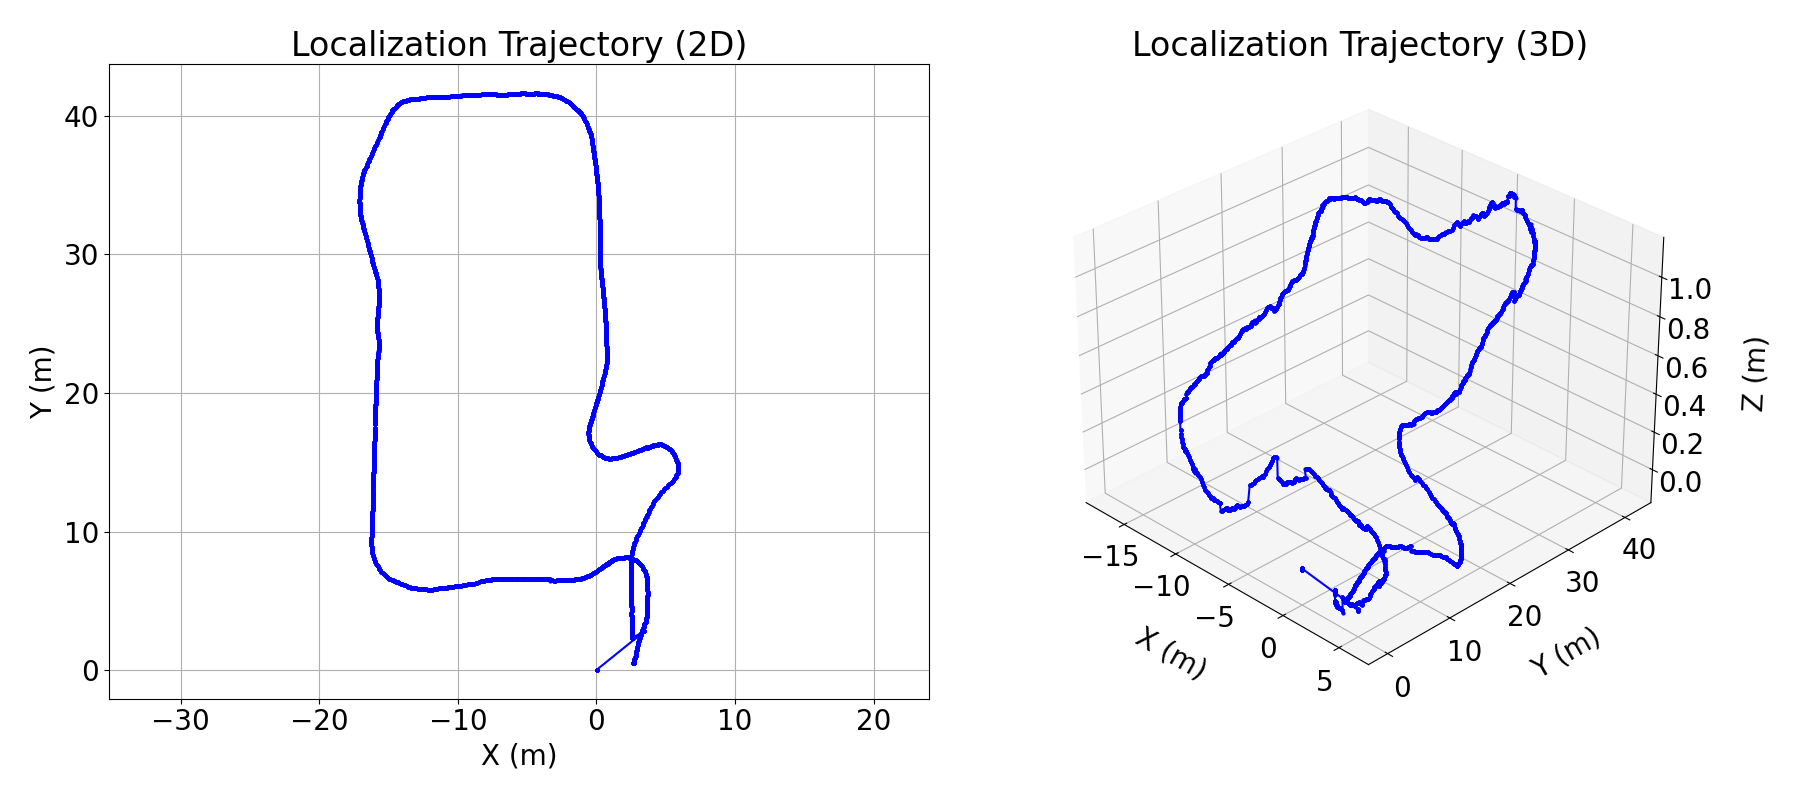
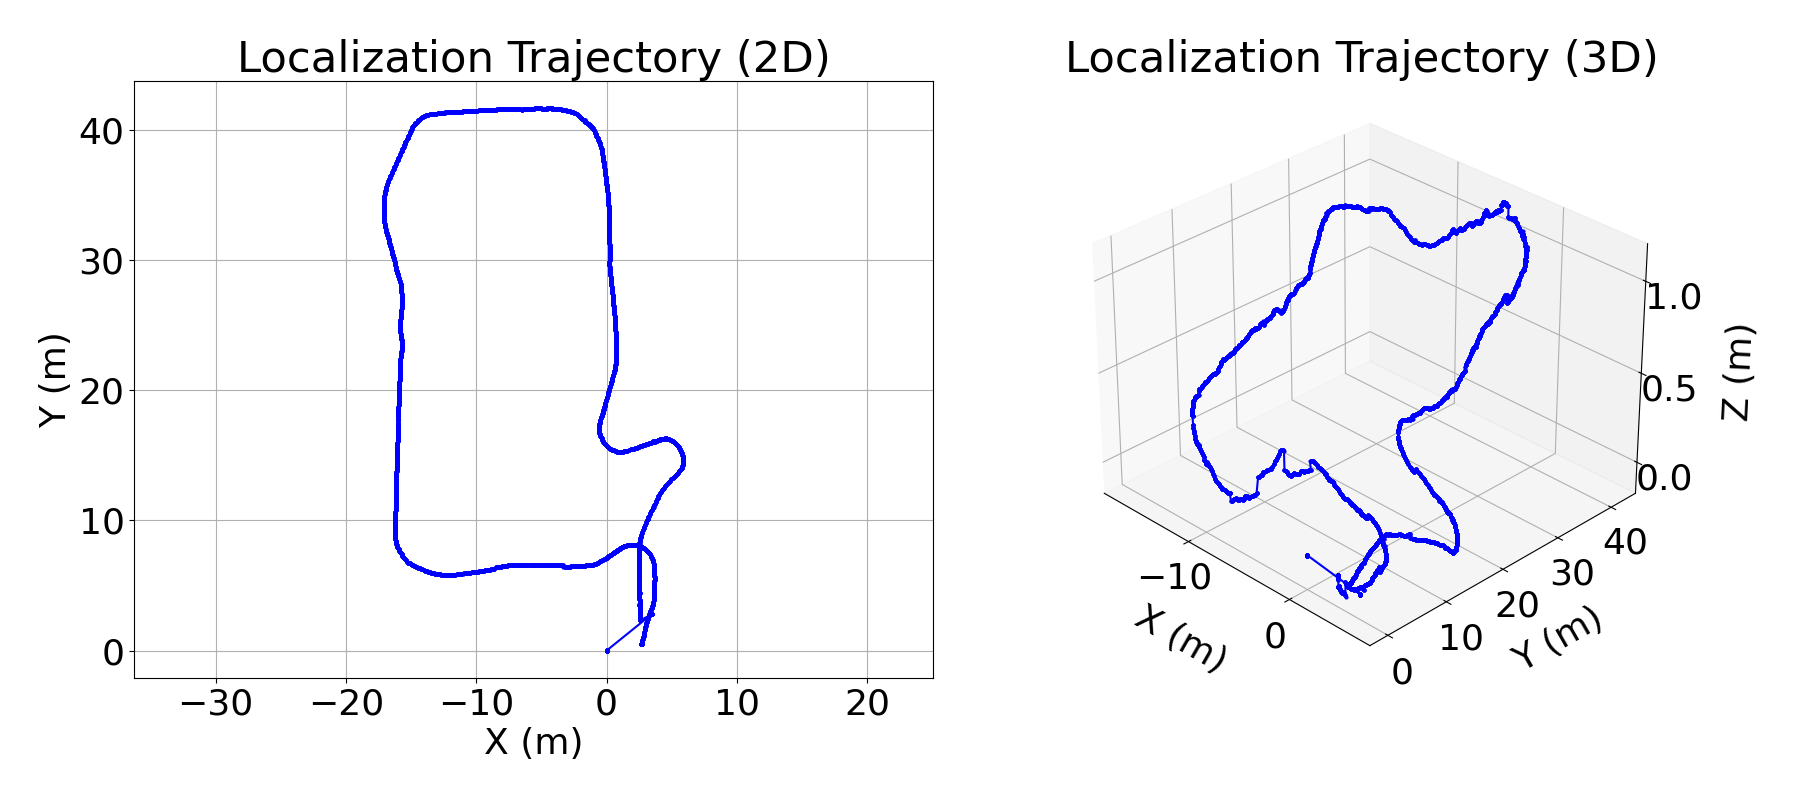
更新路径评估脚本，调整matplotlib字体大小并设置后端为Agg以避免图形界面显示，同时关闭图形以节省资源。更新二进制图像文件以确保一致性和准确性。

diff --git a/path_evaluation/compare_trajectories.py b/path_evaluation/compare_trajectories.py
@@ -5,8 +5,10 @@ import numpy as np
 import os
 from mpl_toolkits.mplot3d import Axes3D
 
-# 设置matplotlib字体大小为五号（约12pt）
-plt.rcParams.update({'font.size': 20})
+# 设置matplotlib字体大小为五号
+plt.rcParams.update({'font.size': 26})
+# 设置matplotlib不使用图形界面后端
+plt.switch_backend('Agg')
 
 def plot_trajectory(x_data, y_data, z_data, title_prefix, color='r', fig_size=(18, 8), 
                     labelpad=20, elev=30, azim=-45, output_file=None):
@@ -53,6 +55,7 @@ def plot_trajectory(x_data, y_data, z_data, title_prefix, color='r', fig_size=(1
         plt.savefig(output_file)
         print(f"{title_prefix}轨迹图片已保存至 {output_file}")
     
+    plt.close(fig)  # 关闭图形，避免显示
     return fig
 
 if __name__ == '__main__':
@@ -97,7 +100,6 @@ if __name__ == '__main__':
             color='r', 
             output_file=odometry_image
         )
-        plt.close(fig1)  # 关闭图1以避免显示
         
         # 绘制定位轨迹
         fig2 = plot_trajectory(
@@ -107,8 +109,7 @@ if __name__ == '__main__':
             output_file=localization_image
         )
         
-        # 显示图形
-        plt.show()
+        print("所有图像已成功保存，无窗口显示")
         
     except FileNotFoundError as e:
         print(f"错误: {str(e)}")
